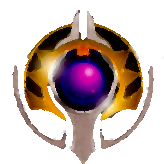
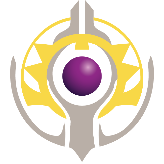
translation credits improved

diff --git a/extracomputer.html b/extracomputer.html
@@ -172,18 +172,22 @@
             <div class="_de">
                 <p>DIES IST NICHT DIE OFFIZIELLE WEBSITE UND STEHT IN KEINEN ZUSAMMENHANG MIT FANTASY FLIGHT GAMES.</p>
                 <p>Entwickelt von Stéphane "Saturn Nitrik" Démots</p>
+                <p>Deutsche Version von Barci</p>
             </div>
             <div class="_ru">
                 <p>ЭТОТ САЙТ НЕ ОФИЦИАЛЬНЫЙ И НЕ БЫЛ ОДОБРЕН FANTASY FLIGHT GAMES.</p>
                 <p>Разработано Стефаном Демотсом, так же известном как Stéphane "Saturn Nitrik" Démots</p>
+                <p>Русская версия Антон Синько</p>
             </div>
       <div class="_sp">
                 <p>ESTE SITIO WEB NO ES OFICIAL Y NO HA SIDO APROBADO POR FANTASY FLIGHT GAMES.</p>
                 <p>Desarrollado por Stéphane "Saturn Nitrik" Démots</p>
+                <p>Versión en español de Sabathius</p>
             </div>
             <div class="_cn">
                 <p>本网站不是官方网站，也未获得 FANTASY FLIGHT GAMES 的授权。</p>
-                <p>由Stéphane "Saturn Nitrik" Démots开发</p>
+                <p>由 Stéphane "Saturn Nitrik" Démots 开发</p>
+                <p>来自柳五的中文版</p>
             </div>
         </div>
         <div id="idSetPlayersScreen" class="clGameScreen">
@@ -1748,6 +1752,7 @@
             <li>German by Barci</li>
             <li>Russian by Антон Синько</li>
             <li>Spanish by Sabathius</li>
+            <li>Chinese by 柳五</li>
         </ul>
             <br/>
         <div class="classCenter">
@@ -1854,6 +1859,11 @@
     <!-- Changelog TAB -->
     <!-- --------------------------------------------- -->
     <div id="infoChangeLog" class="tabcontent">
+      <p>v6.3 - 2022.05.04:</p>
+        <ul>
+            <li>Chinese translation by 柳五 added</li>
+            <li>Keleres icon updated</li>
+        </ul>
       <p>v6.2 - 2022.05.04:</p>
         <ul>
             <li>Added "The Keleres Council" from Codex III</li>

diff --git a/ti4/main.js b/ti4/main.js
@@ -1,5 +1,5 @@
 /* Author: Stephane Demots */
-const cVERSION = (6)*100 + (2);
+const cVERSION = (6)*100 + (3);
 const cOFFLINE = 0;
 
 var gClockRun = 0;
